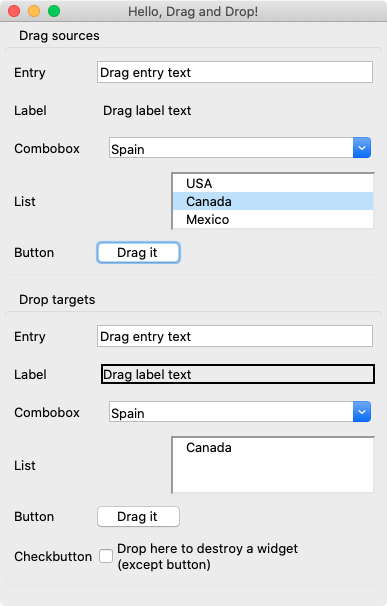
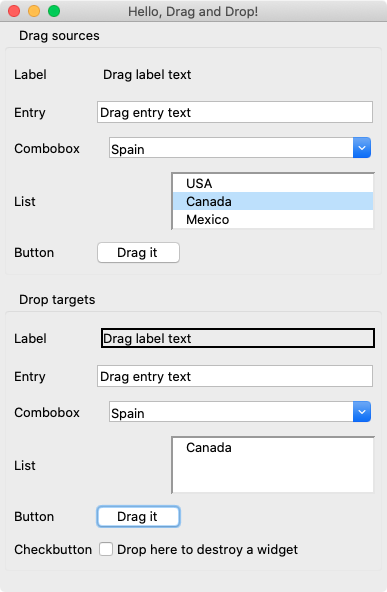
Have `DragAndDropEvent` `source`/`target` be the enhanced Glimmer widget proxy instead of the unenhanced Tk widget

diff --git a/samples/hello/hello_drag_and_drop.rb b/samples/hello/hello_drag_and_drop.rb
@@ -35,16 +35,27 @@ root {
       
       label {
         grid :row => 0, :column => 0
-        text "Entry"
+        text "Label"
+      }
+      label {
+        grid :row => 0, :column => 1, :pady => 10, :sticky => "e"
+        text "Drag label text"
+        width 30
+        drag_source true
       }
       
+      label {
+        grid :row => 1, :column => 0
+        text "Entry"
+      }
       entry {
-        grid :row => 0, :column => 1, :pady => 5, :sticky => "e"
+        grid :row => 1, :column => 1, :pady => 5, :sticky => "e"
         text "Drag entry text"
         width 30
         
+        # This is how to do `drag_source true` the manual way for use in exceptional cases
         on_drag_start do |event|
-          event.data = event.source.textvariable&.value
+          event.data = event.source.text
           event.source.configure(:cursor => "hand2")
           TkLabel.new(event.tooltip) {
             text event.data + " "
@@ -53,7 +64,6 @@ root {
             compound "right"
           }.pack
         end
-        
         on_drag_motion do |event|
           if event.drop_accepted?
             event.source.configure(:cursor => "hand1")
@@ -63,24 +73,12 @@ root {
           event.tooltip.geometry("+#{event.x_root + 10}+#{event.y_root - 4}")
         end
       }
-      
-      label {
-        grid :row => 1, :column => 0
-        text "Label"
-      }
-      
-      label {
-        grid :row => 1, :column => 1, :pady => 10, :sticky => "e"
-        text "Drag label text"
-        width 30
-        drag_source true
-      }
+            
       
       label {
         grid :row => 2, :column => 0
         text "Combobox"
       }
-      
       combobox {
         grid :row => 2, :column => 1, :pady => 5, :sticky => "e"
         text "Spain"
@@ -88,7 +86,7 @@ root {
         width 27
         
         on_drag_start do |event|
-          event.data = event.source.textvariable&.value
+          event.data = event.source.text
         end
       }
       
@@ -96,7 +94,6 @@ root {
         grid :row => 3, :column => 0
         text 'List'
       }
-      
       list {
         grid :row => 3, :column => 1, :pady => 5, :sticky => "e"
         selectmode 'browse'
@@ -105,7 +102,7 @@ root {
         height 3
         
         on_drag_start do |event|
-          event.data = event.source.selection.to_a.first.text
+          event.data = event.source.selection.first
         end
       }
       
@@ -113,7 +110,6 @@ root {
         grid :row => 4, :column => 0
         text "Button"
       }
-      
       button {
         grid :row => 4, :column => 1, :pady => 5, :sticky => "w"
         text "Drag it"
@@ -128,45 +124,42 @@ root {
       
       label {
         grid :row => 0, :column => 0
-        text "Entry"
-      }
-      
-      entry {
-        grid :row => 0, :column => 1, :pady => 5, :sticky => "e"
-        width 30
-        
-        on_drop { |event|
-          event.target.textvariable.value = event.data
-        }
-      }
-      
-      label {
-        grid :row => 1, :column => 0
         text "Label"
       }
-      
       label {
-        grid :row => 1, :column => 1, :pady => 10, :sticky => "e"
+        grid :row => 0, :column => 1, :pady => 10, :sticky => "e"
         width 30
         borderwidth 2
         relief "solid"
         
         on_drop do |event|
-          event.target.textvariable.value = event.data
+          event.target.text = event.data
         end
+      }
+      
+      label {
+        grid :row => 1, :column => 0
+        text "Entry"
+      }
+      entry {
+        grid :row => 1, :column => 1, :pady => 5, :sticky => "e"
+        width 30
+        
+        on_drop { |event|
+          event.target.text = event.data
+        }
       }
       
       label {
         grid :row => 2, :column => 0
         text "Combobox"
       }
-      
       combobox {
         grid :row => 2, :column => 1, :pady => 5, :sticky => "e"
         width 27
         
         on_drop do |event|
-          event.target.textvariable.value = event.data
+          event.target.text = event.data
         end
       }
       
@@ -174,14 +167,13 @@ root {
         grid :row => 3, :column => 0
         text 'List'
       }
-      
       list {
         grid :row => 3, :column => 1, :pady => 5, :sticky => "e"
         selectmode 'browse'
         height 3
         
         on_drop do |event|
-          event.target.insert('', 'end', :text => event.data)
+          event.target.items += [event.data]
         end
       }
       
@@ -189,7 +181,6 @@ root {
         grid :row => 4, :column => 0
         text "Button"
       }
-      
       button {
         grid :row => 4, :column => 1, :pady => 5, :sticky => "w"
         text "Drop here"
@@ -203,7 +194,6 @@ root {
         grid :row => 5, :column => 0
         text "Checkbutton"
       }
-      
       checkbutton {
         grid :row => 5, :column => 1, :pady => 5, :sticky => "w"
         text "Drop here to destroy a widget"

diff --git a/lib/glimmer/tk/drag_and_drop_extension.rb b/lib/glimmer/tk/drag_and_drop_extension.rb
@@ -44,7 +44,7 @@ module Glimmer
         @on_drop_block = value
         self.tk.bind("<DropEvent>", proc { |tk_event|
           drop_event = DragAndDropEvent.json_create(JSON.parse("{" + tk_event.detail + "}"))
-          @on_drop_block.call(drop_event) if self.tk == drop_event.target
+          @on_drop_block.call(drop_event) if self == drop_event.target
         })
         self.tk.bind("<DropCheckEvent>", proc { |tk_event|
           drop_check_event = DragAndDropEvent.json_create(JSON.parse("{" + tk_event.detail + "}"))
@@ -63,7 +63,7 @@ module Glimmer
           if drag_event.nil?
             tooltip = TkToplevel.new(root).overrideredirect(1) #create tooltip window to display dragged data
             tooltip.geometry("+#{tk_event.x_root + 10}+#{tk_event.y_root - 2}")
-            drag_event = DragAndDropEvent.new(self.tk, nil, tooltip, tk_event.x_root, tk_event.y_root, nil, false)
+            drag_event = DragAndDropEvent.new(self, nil, tooltip, tk_event.x_root, tk_event.y_root, nil, false)
             if @drag_source
               tk_event.widget.configure(:cursor => "hand2")
               # Default data to drag is text
@@ -77,7 +77,7 @@ module Glimmer
             drag_event.x_root, drag_event.y_root = tk_event.x_root, tk_event.y_root
             drag_event.drop_accepted = false
             move_over_widget = tk_event.widget.winfo_containing(tk_event.x_root, tk_event.y_root)
-            drag_event.target = move_over_widget
+            drag_event.target = move_over_widget.proxy
             move_over_widget.event_generate("<DropCheckEvent>", :data => drag_event.to_json)
             if @on_drag_motion_block.nil?
               # Default motion behavior:
@@ -96,7 +96,7 @@ module Glimmer
         })
         bind("ButtonRelease-1", proc { |tk_event|
           if drag_event
-            drag_event.target = tk_event.widget.winfo_containing(tk_event.x_root, tk_event.y_root)
+            drag_event.target = tk_event.widget.winfo_containing(tk_event.x_root, tk_event.y_root).proxy
             drag_event.source.configure(:cursor => "")
             drag_event.target.event_generate("<DropEvent>", :data => drag_event.to_json)
             drag_event.tooltip.destroy
@@ -127,7 +127,7 @@ module Glimmer
         end
 
         def self.json_create(object)
-          new(*[ObjectSpace._id2ref(object["v"][0]), ObjectSpace._id2ref(object["v"][1]), ObjectSpace._id2ref(object["v"][2])].concat(object["v"].drop 3))
+          new(*[ObjectSpace._id2ref(object["v"][0]), ObjectSpace._id2ref(object["v"][1]).proxy, ObjectSpace._id2ref(object["v"][2])].concat(object["v"].drop 3))
         end
       end
     end

diff --git a/CHANGELOG.md b/CHANGELOG.md
@@ -4,6 +4,7 @@
 
 - Add `#proxy` method to all Tk widgets to return Glimmer widget proxy objects (e.g. `Tk::Tile::TButton#proxy` returns `Glimmer::Tk::WidgetProxy` object)
 - Provide question mark alias of `event.drop_accepted` (i.e. `drop_accepted?`)
+- Have `DragAndDropEvent` `source`/`target` be the enhanced Glimmer widget proxy instead of the unenhanced Tk widget
 - Fix issue with dropping button and list unto checkbox in Hello, Drag and Drop!
 
 ## 0.0.44
